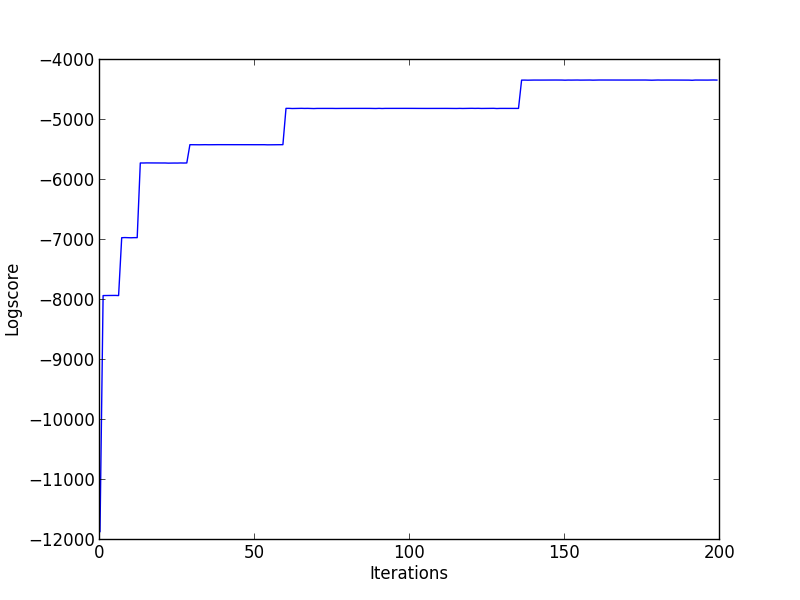
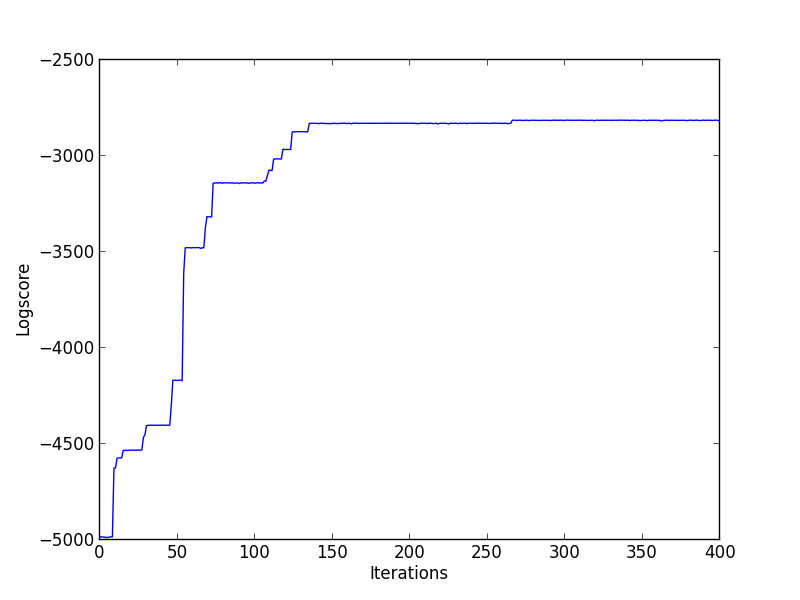
correct priors

diff --git a/main.py b/main.py
@@ -30,7 +30,7 @@ class stochastic_test(venture_infrastructure.venture_infrastructure):
     MyRIPL.assume("size", lisp_parser.parse("(uniform-discrete 30 60)"))
     MyRIPL.assume("id", lisp_parser.parse("(uniform-discrete 0 25)"))
     MyRIPL.assume("blur", lisp_parser.parse("(* (beta 1 2) 40)"))
-    MyRIPL.assume("alpha", lisp_parser.parse("(uniform-continuous 0.01 5)"))    
+    MyRIPL.assume("alpha", lisp_parser.parse("(uniform-continuous 0.01 8)"))    
     MyRIPL.assume("pflip", lisp_parser.parse("(beta 1 alpha)"))
 
 
@@ -54,7 +54,7 @@ class stochastic_test(venture_infrastructure.venture_infrastructure):
 
     logsArray = []
     cnt = 0
-    while cnt < 200:
+    while cnt < 400:
         MyRIPL.infer(50)
         posx = MyRIPL.report_value(1)
         posy = MyRIPL.report_value(2)

diff --git a/renderengine/MQXRP/noisyImageCompareXRP.py b/renderengine/MQXRP/noisyImageCompareXRP.py
@@ -34,10 +34,10 @@ class noisyImageCompareXRP:
 
 	def getLogLikelihood(self,imageid,pflip):
 		if (self.logl.has_key(imageid)):
-			print imageid, "||", self.logl[imageid]
+			#print imageid, "||", self.logl[imageid]
 			return self.logl[imageid]
 		else:
 			l = self.renderer.getLogLikelihood(pflip)
 			self.logl[imageid] = l
-			print imageid, "||", self.logl[imageid]
+			#print imageid, "||", self.logl[imageid]
 			return l
